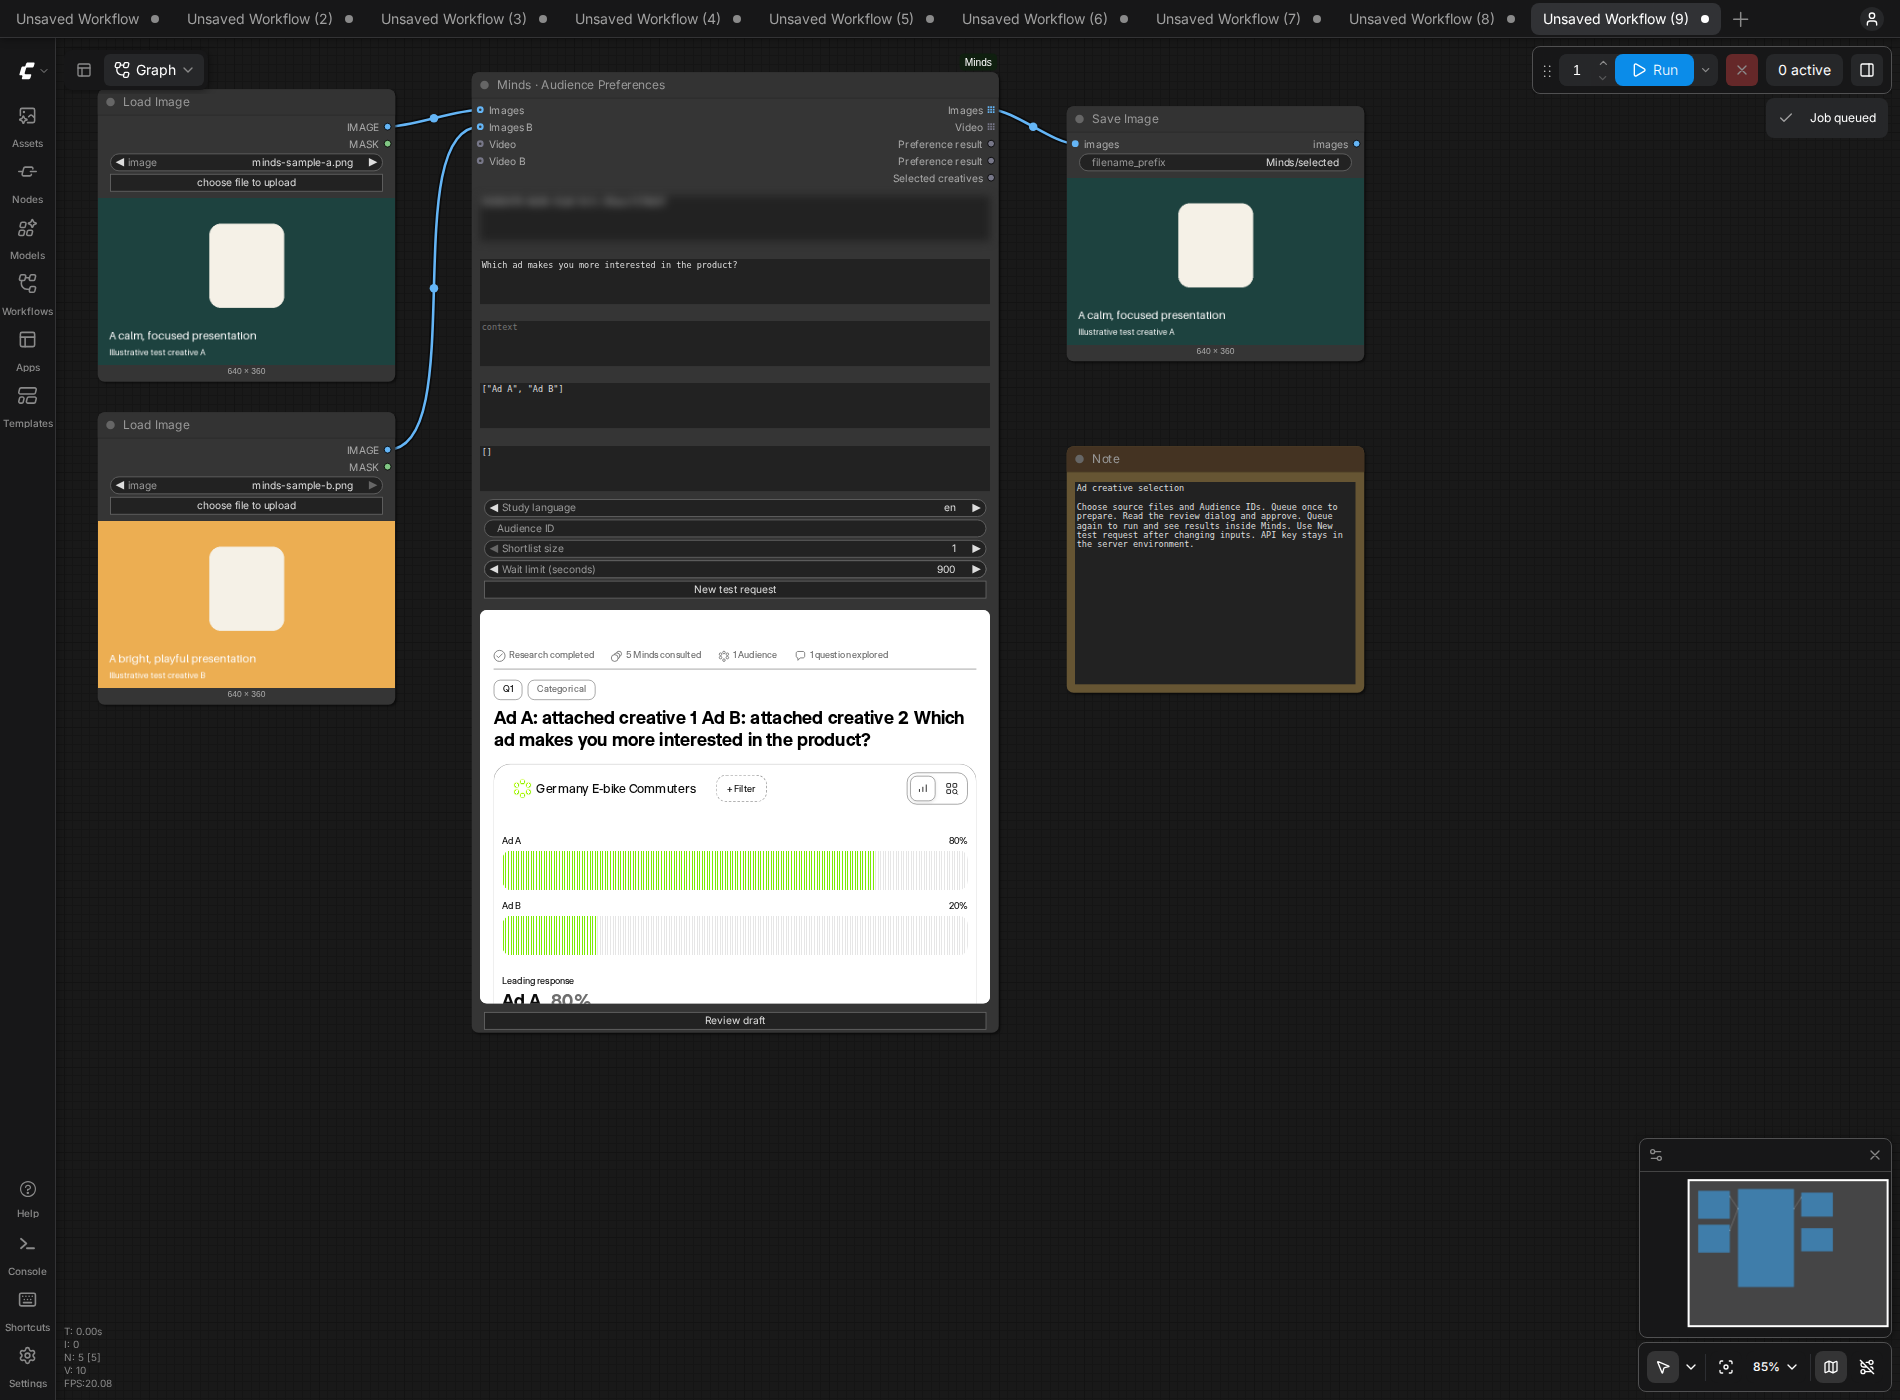
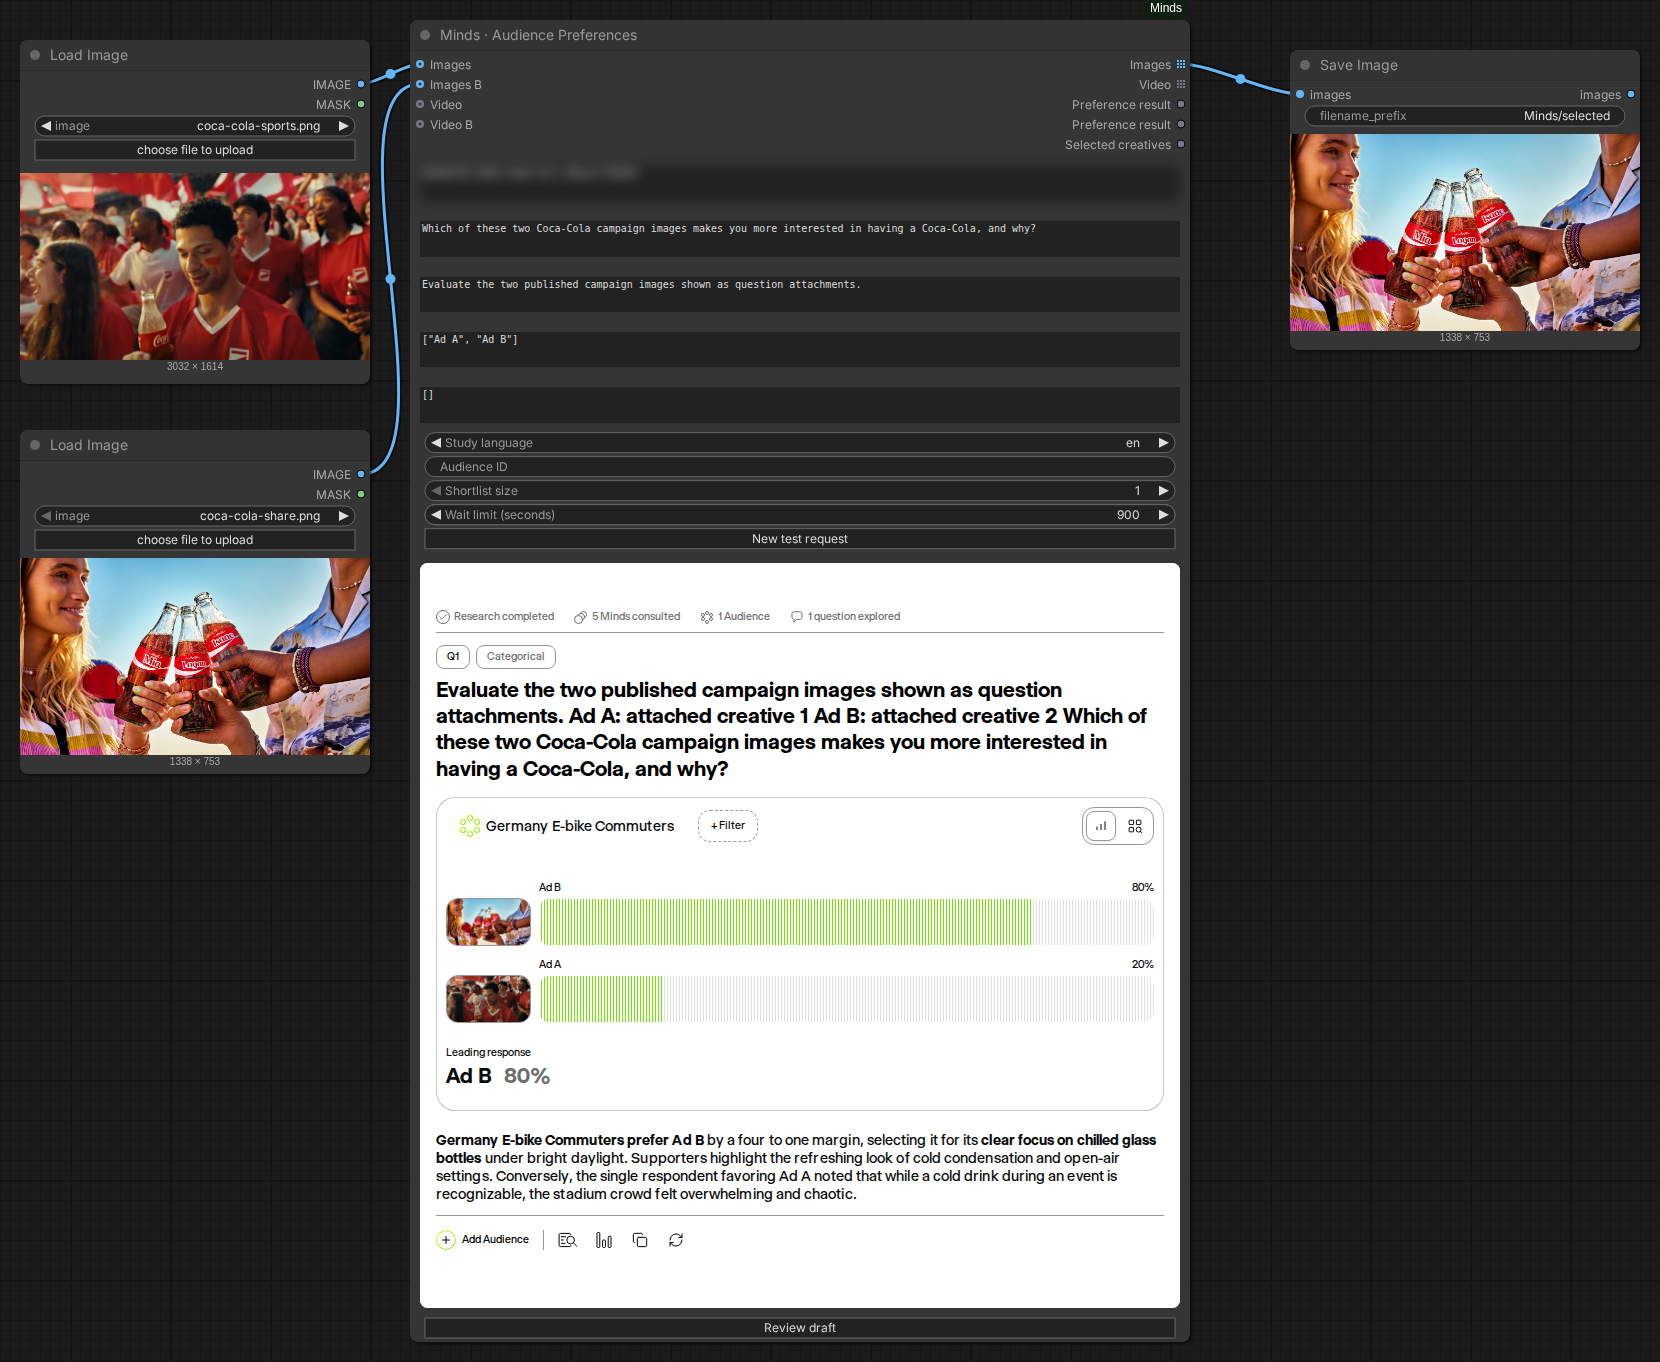
fix(comfyui): verify wheel scrolling and refresh campaign captures (#75) (#76)

diff --git a/apps/comfyui/docs/usage.md b/apps/comfyui/docs/usage.md
@@ -2,7 +2,11 @@
 
 The official [Minds](https://getminds.ai) integration adds audience preference testing to [ComfyUI](https://www.comfy.org/). **Minds · Audience Preferences** compares image, video and concept alternatives with your selected Minds Audiences. Its ordinary node fields collect your question and inputs; the embedded Minds response widget shows the completed research. Selected original media can continue directly to Save, upscaling or video nodes.
 
-![One Minds node showing completed illustrative image preferences](images/workflow.png)
+![Coca-Cola campaign inputs, the complete Minds preference result, and the saved original winner](images/workflow.png)
+
+This workflow-only capture replays a completed live integration test with two published Coca-Cola campaign images. Ad B (Share a Coke) received 4 of 5 selections (80%); Ad A (football) received 1 (20%). The five-Mind QA Audience verifies the integration path, not campaign performance. Sources: [football campaign](https://www.coca-colacompany.com/media-center/coca-cola-invites-gen-z-to-live-fully-in-the-moment) and [Share a Coke](https://www.coca-colacompany.com/media-center/iconic-share-a-coke-is-back-for-a-new-generation.html).
+
+![Original campaign thumbnails, preference scores, summary and result controls](images/response.png)
 
 This integration uses the existing Minds Study API and its current model routing. It does not select or deploy a Mosaic checkpoint.
 
@@ -22,7 +26,7 @@ In Browse Templates, look for **ComfyUI-Minds**. Copy the illustrative files fro
 1. Connect an `IMAGE` batch or list to `images`, and optionally another to `images_b`. For native videos, use `videos` and optionally `videos_b`; each accepts a `VIDEO` or Comfy list. All images precede all videos in candidate order, with the first port before the second. These media inputs are optional when supplying hosted assets or concepts.
 2. Supply `labels_json` for all native candidates in that order. For two images, for example, use `["Original", "Revision"]`. Give every candidate a unique label. `assets_json` supplies additional hosted files or authored concepts; their own labels follow the native candidates.
 3. Enter existing `audience_ids`, comma-separated, and your preference question, context and Study language. Queue once. Read the exact question, alternatives and selected Audiences in the review dialog, then click **Approve this draft**. Preparation does not run research; downstream nodes stay blocked until approval.
-4. Queue again. The same node runs the approved draft and shows the actual Minds response interface: preference distributions, findings and available individual Mind responses. Read or scroll within the results area. The `results_json` and `preference_result` outputs provide the ranking for automation.
+4. Queue again. The same node runs the approved draft and shows the actual Minds response interface: preference distributions, findings and available individual Mind responses. Place the pointer over the results and use the mouse wheel or a two-finger trackpad gesture to scroll to the findings and bottom controls. The graph stays in place. The taller documentation capture shows the complete result at once; ordinary node results remain scrollable. The `results_json` and `preference_result` outputs provide the ranking for automation.
 5. Connect `selected_images` or `selected_videos` directly downstream. They emit lists of original native media, preserving video audio and supporting images with different dimensions. With multiple Audiences, results always stay separate; enter a matching `selection_audience_id` to enable downstream selection. Leaving it blank shows all Audience results and blocks selection. `top_k` controls the shortlist size.
 
 Equal preference shares remain ties, including ties at the shortlist boundary; more than `top_k` items may be returned. An absent native modality blocks only that media output. Hosted files and concepts are retained in `selected_creatives`, but cannot produce a native IMAGE/VIDEO output without the original objects.

diff --git a/apps/comfyui/docs/qa.md b/apps/comfyui/docs/qa.md
@@ -26,3 +26,10 @@ Comfy Cloud execution, Comfy Registry installation and native Partner Node listi
 A fresh real ComfyUI run compared two Coca-Cola campaign visuals published in the company's newsroom: [the football campaign image](https://www.coca-colacompany.com/media-center/coca-cola-invites-gen-z-to-live-fully-in-the-moment) and [the Share a Coke campaign image](https://www.coca-colacompany.com/media-center/iconic-share-a-coke-is-back-for-a-new-generation.html). The original files were uploaded as question attachments, reviewed and approved, and evaluated by the existing five-Mind QA Audience. Ad A received one choice and Ad B four choices. This small integration test does not establish campaign effectiveness.
 
 The completed response carries the confirmed run's exact, signed question attachments into the canonical MCP widget. Browser verification requires both original images to decode, their A/B labels to match the result options, and the selected original image to reach SaveImage. The raw run and screenshots stay outside the repository. The node's browser receives no API credential.
+
+
+## Native result scrolling and workflow-only captures
+
+Replayed the completed Coca-Cola image Study in native ComfyUI without starting another research run. A real mouse-wheel event moved the embedded result from the top to its final controls; the canvas scale and offset stayed unchanged. The result remained within the node, and no browser errors occurred. The standalone response-layout check now also uses real wheel events at four viewport/zoom combinations.
+
+The workflow-only and result-detail captures in `docs/images` reuse that completed result and its original saved winner. The taller documentation view shows the complete result at once; it is not the default node height. Both official campaign sources are linked in the usage guide. Account IDs are obscured; raw result payloads, signed media URLs and credentials are excluded.

diff --git a/apps/comfyui/docs/response-widget.md b/apps/comfyui/docs/response-widget.md
@@ -19,7 +19,7 @@ A sandboxed iframe is created for each completed result. The official MCP Apps `
 
 The host reports the iframe's actual CSS width and height through MCP Apps `containerDimensions`, including resize updates. This keeps the shared response widget's internal scroll viewport within the node, including when the ComfyUI canvas is zoomed. Resize tracking is removed with the frame.
 
-Run `node scripts/test_response_layout.mjs` after installing the widget-build dependencies to check the real pinned HTML at short, tall, narrow and zoomed sizes. It uses illustrative results and makes no research API calls. An optional second argument replays a private completed ComfyUI output JSON; keep those snapshots outside the repository.
+Run `node scripts/test_response_layout.mjs` after installing the widget-build dependencies to check the real pinned HTML at short, tall, narrow and zoomed sizes. It uses real mouse-wheel events to reach the final action row at each size, with illustrative results and no research API calls. A native ComfyUI replay of the completed Coca-Cola test also verified scrolling to the footer without changing the graph zoom or position. An optional second argument replays a private completed ComfyUI output JSON; keep those snapshots outside the repository.
 
 The browser receives no API key. The bridge exposes no server tools, resource proxy or authenticated requests. Its only host action opens links on the exact `https://getminds.ai` origin. The iframe has scripts and external popups enabled, without same-origin access to ComfyUI. If initialization fails, a link opens the Study in Minds; the graph's JSON/native outputs remain available.
 
